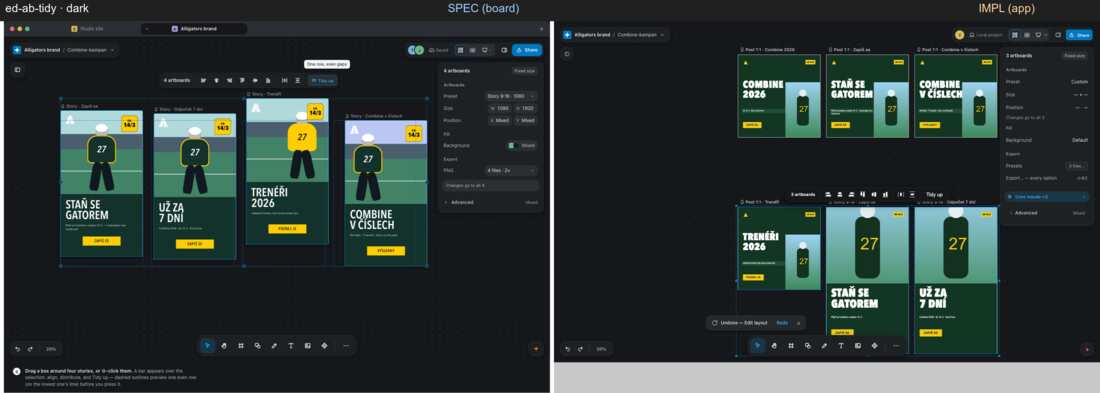
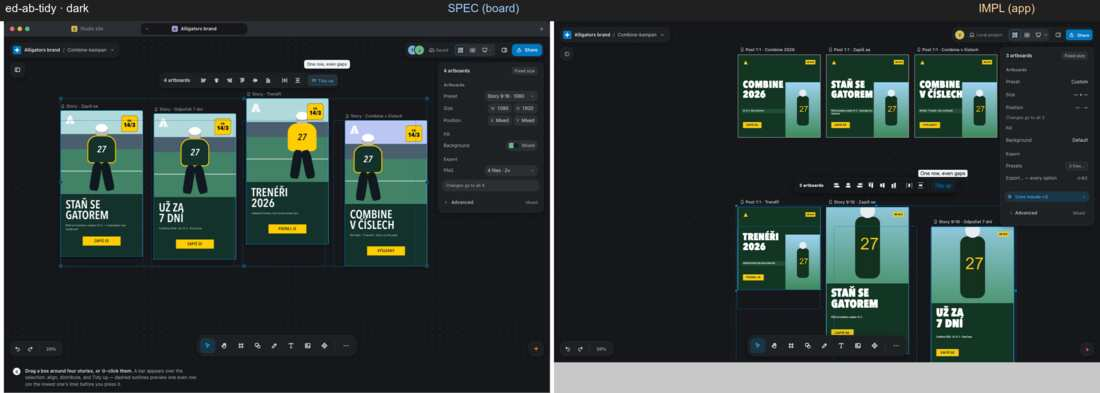
V2-8.5 c6-drag: stage D re-shoot of 14 drag ids (arrange, tidy, resize, reorder, ask, undo), fix report, harness

Changed region(s): [[0.7109, 0.4275, 0.9273, 0.9466], [0.6491, 0.7939, 0.7418, 0.855]]

diff --git a/.ai/plans/notes/v2-evidence/phase8-fidelity/14-editing/fix-c6-drag.md b/.ai/plans/notes/v2-evidence/phase8-fidelity/14-editing/fix-c6-drag.md
@@ -1,0 +1,32 @@
+# P8 stage C · round 6 · c6-drag — fix report (done vs open)
+
+Branch `p8-c6-drag` (from feat/maude-v2 4fc89c1a4). Scope: the drag states of 14 Editing (critic-final-d3 rows): the live inspector during an artboard resize, arrange (guides, gap chips, X·Y pill), Tidy-up (preview + tip), reorder (lifted card + slot), and the tab-order pills over a pointer selection.
+
+## Done (code, each with a fail-first test, reverted once together)
+
+| change | ids | files | test |
+| --- | --- | --- | --- |
+| **The inspector follows an artboard edge drag.** New canvas → shell message `artboard-live-size { id, w, h, preset }` (null `id` = over) posted from `ArtboardHandles` `run()` and cleared in `finish()`; the shell believes it only from the ACTIVE canvas (dgn row, gate `active`), clamps it, and `use-shell-core.jsx` hands the inspector the selection with `worldW/worldH` replaced while it lasts — the Width row reads "Laptop · 1280" the moment the width clicks onto it, and "1052 now" | ed-ab-resize | `bridge/dgn-protocol.ts`, `editing/artboard-handles.tsx`, `client/v2/inspector/live-size.js` (new), `client/hooks/use-shell-core.jsx` | `p8-c6-live-size.test.ts` |
+| The two resize hints are **two pills** (one per key), not one box | ed-ab-resize | `editing/preset-ruler.tsx` (+ TESTIDS.md / testids.json meaning) | `p8-c6-resize-hints.test.tsx` |
+| **Tab-order pills + the focus ring belong to Tab / F6 only.** `isNavigationKey` was "any key that is not a modifier", so a tool letter, Esc, ⌘Z, ⌘/ or an ARROW (which nudges the object the pointer selected) flipped the modality and painted `1.2.1.1 …` over a pointer selection | ed-edge-ask, ed-edge-undo, every shot where the harness pressed ⌘Z / Esc / arrows before the frame | `editing/focus-model.tsx` | `v2-edit-keyboard.test.tsx` (new case) |
+| **Reorder: the card is lifted** — tilted (-2°), 1.03×, accent ring, deep shadow, opaque (`rotate` / `scale` individual properties, so the drag's own `translate()` is still the only `transform`); the **slot is the card's own size** (`cardBox`, the tilted bounds no longer inflate it) | ed-lay-reorder | `editing/reorder-slot.tsx` (`LIFT`, `liftCard`, `cardBox`), `canvas-shell.tsx` | `p8-c6-reorder-lift.test.ts` |
+| **Tidy-up bar clears the artboard name labels** (it sat on them) | ed-ab-tidy | `editing/align-bar.tsx` (`clearLabels`) | `p8-c6-tidy-bar.test.ts` |
+| No **"Δ0"** pill on a snap that moved the board by under half a pixel | ed-ab-arrange | `canvas-lib.tsx` (shared file, own commit) | `p8-c6-snap-pill.test.ts` |
+
+## Done (harness — `.scr/` copies are in `_d6-harness-g5/`)
+Most of the drag rows were the shot, not the product: the guides, "80" chips, X·Y pill, dashed Tidy preview, "One row, even gaps" tip and the slot all existed and were simply never on screen.
+- `s14a` ed-ab-arrange: the 4th post is steered (two readings of the X·Y pill give the pointer → layout scale, then fine steering) to land EXACTLY left of the row at the row's gap and line, so the magenta guide and the three "80" chips draw; ed-ab-tidy: a loose layout first (the 2nd story slid down), the three artboards marquee'd and the pointer RESTS on "Tidy up" (dashed one-row preview + tip), the undo toast dismissed.
+- `s14b` ed-lay-reorder: pinch in on Services, double-click INTO the card (so a drag reorders it), grab it high and left (the middle of a small card is its own gap grip) and drag it to the front.
+
+## Open
+1. Names in the reorder tag: "Frame · moves to 1 of 3", the board says "Small apps" (14 R4, c3-inspect: an unnamed frame is "Frame"; the fixture's cards carry no designer name).
+2. ed-ab-arrange: the leftmost "80" chip is half under the dragged board's selection handle; the board draws it clear.
+3. ed-ab-tidy: the fixture has three artboards on two lines (the board: four stories), the bar says "3 artboards"; the board's inspector shows Story 9:16 · 1080 values — the multi-artboard card is `04`/`08`'s.
+4. ed-lay-reorder: the board is zoomed on the row with the Layers slot panel and the 220 ms film strip beside it (specimen content); the app is the page at the zoom a pinch gave. The "Services → Auto layout" parent chip is not drawn.
+5. ed-ab-resize: the inspector card is 08's web card (Width / Height / Other widths), not 14's Preset / Size W·H rows (round 5 open #1).
+6. `test/characterization/v1/keys.txt` records the v1 `v` key putting a focus ring on a pointer selection; with this change it does not — `node scripts/check-v1-characterization.mjs --update` on the merged tip.
+
+## Decisions
+- `decision:maude/v2-p8-c6-pills-follow-tab-only`: the keyboard modality (order pills, focus ring, aria-live) is set by Tab / F6 only — rejected: keeping "any non-modifier key" with an exclusion list (every new tool key would need adding), including arrows (they nudge an object the pointer picked; a keyboard user always arrives by Tab first).
+- `decision:maude/v2-p8-c6-live-size-overlay`: the live resize size reaches the inspector as an overlay on the shell's `selected` (`overlayLiveSize`), not as a new inspector prop — rejected: a second prop threaded through app.jsx (shared file), and writing the drag size into the real selection state (it would reach the ws `select` broadcast).
+- `decision:maude/v2-p8-c6-lift-by-individual-properties`: the lifted card uses CSS `rotate` / `scale`, leaving `transform: translate()` to the drag — rejected: composing a transform string (`translateOf` / `slotRect` and the drop's un-float read `transform`).

diff --git a/.ai/plans/notes/v2-evidence/phase8-fidelity/14-editing/INDEX.md b/.ai/plans/notes/v2-evidence/phase8-fidelity/14-editing/INDEX.md
@@ -327,3 +327,24 @@ Re-shot 50 of 52 pairs; 2 unreachable. Supersedes every earlier "after" / "FINAL
 | `ed-text-edit` | light | re-shot | spec reused (board unchanged since the stage-A shot) |
 | `ed-text-style` | dark | re-shot | spec reused (board unchanged since the stage-A shot) |
 | `ed-text-style` | light | re-shot | spec reused (board unchanged since the stage-A shot) |
+
+
+## After (round 6, c6-drag) — IMPL re-shot on the p8-c6-drag tip, both themes
+Re-shot: ed-ab-select, ed-ab-resize, ed-ab-arrange, ed-ab-tidy, ed-lay-reorder, ed-edge-ask, ed-edge-undo (the other pairs are D3's, untouched). Changed in the product: the inspector follows an artboard edge drag (Width reads "Laptop · 1280" as the edge clicks onto the preset; new canvas → shell message `artboard-live-size`), the two resize hints are two pills, the reorder card is lifted (tilted, accent ring, deep shadow) with a card-sized slot, the Tidy-up bar clears the artboard name labels, no "Δ0" snap pill, and the tab-order pills / focus ring follow Tab and F6 only (a tool letter, Esc, a chord or an arrow no longer paints `1.2.1.1` over a pointer selection). Changed in the harness (`_d6-harness-g5/`): the drag states are now actually on screen — arrange lands exactly in the row (guide, three "80" chips, X · Y pill), Tidy up is hovered (dashed one-row preview + "One row, even gaps"), reorder zooms on Services and lifts a card. See `fix-c6-drag.md` for done / open.
+
+| id | theme | round 6 | spec |
+| --- | --- | --- | --- |
+| `ed-ab-arrange` | dark | re-shot | spec reused (board unchanged since the stage-A shot) |
+| `ed-ab-arrange` | light | re-shot | spec reused (board unchanged since the stage-A shot) |
+| `ed-ab-resize` | dark | re-shot | spec reused (board unchanged since the stage-A shot) |
+| `ed-ab-resize` | light | re-shot | spec reused (board unchanged since the stage-A shot) |
+| `ed-ab-select` | dark | re-shot | spec reused (board unchanged since the stage-A shot) |
+| `ed-ab-select` | light | re-shot | spec reused (board unchanged since the stage-A shot) |
+| `ed-ab-tidy` | dark | re-shot | spec reused (board unchanged since the stage-A shot) |
+| `ed-ab-tidy` | light | re-shot | spec reused (board unchanged since the stage-A shot) |
+| `ed-edge-ask` | dark | re-shot | spec reused (board unchanged since the stage-A shot) |
+| `ed-edge-ask` | light | re-shot | spec reused (board unchanged since the stage-A shot) |
+| `ed-edge-undo` | dark | re-shot | spec reused (board unchanged since the stage-A shot) |
+| `ed-edge-undo` | light | re-shot | spec reused (board unchanged since the stage-A shot) |
+| `ed-lay-reorder` | dark | re-shot | spec reused (board unchanged since the stage-A shot) |
+| `ed-lay-reorder` | light | re-shot | spec reused (board unchanged since the stage-A shot) |
